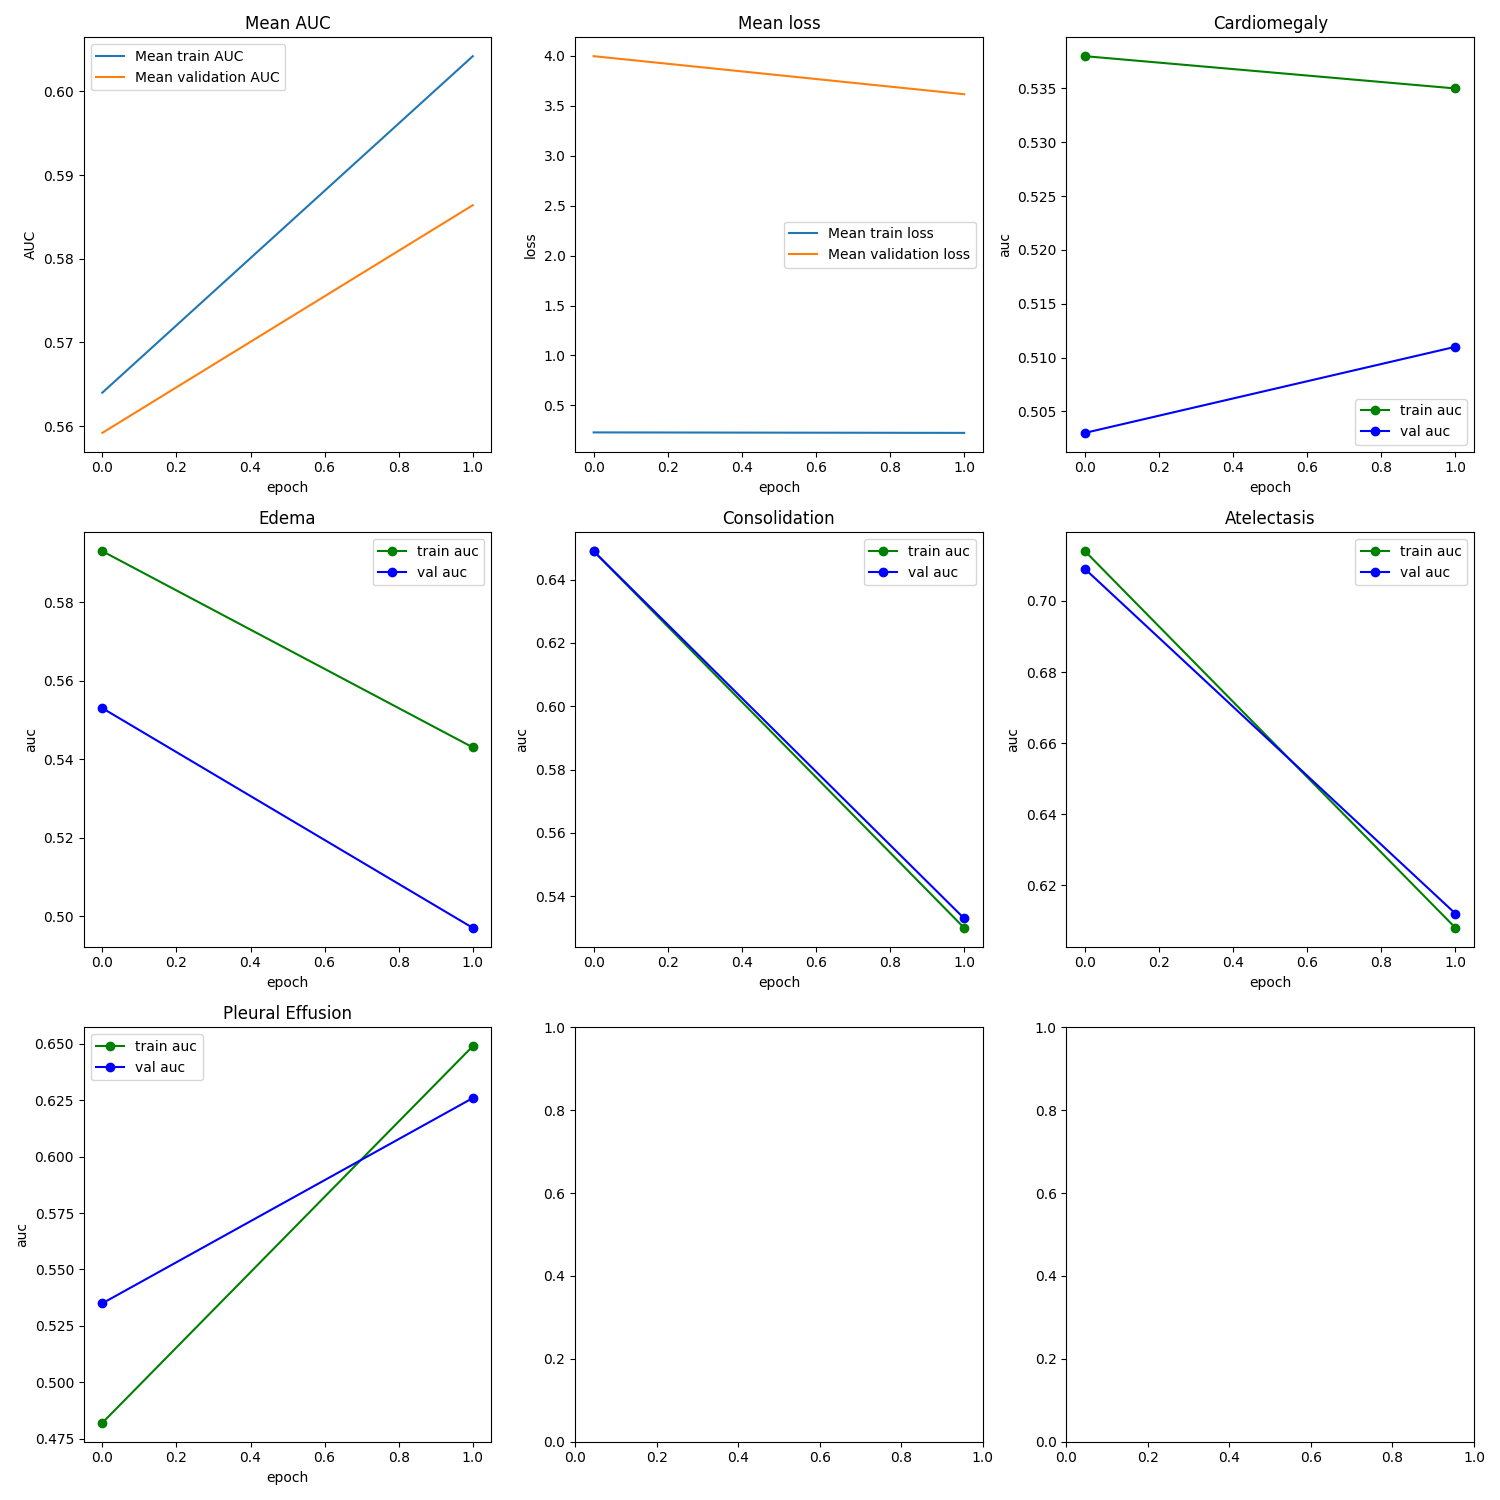
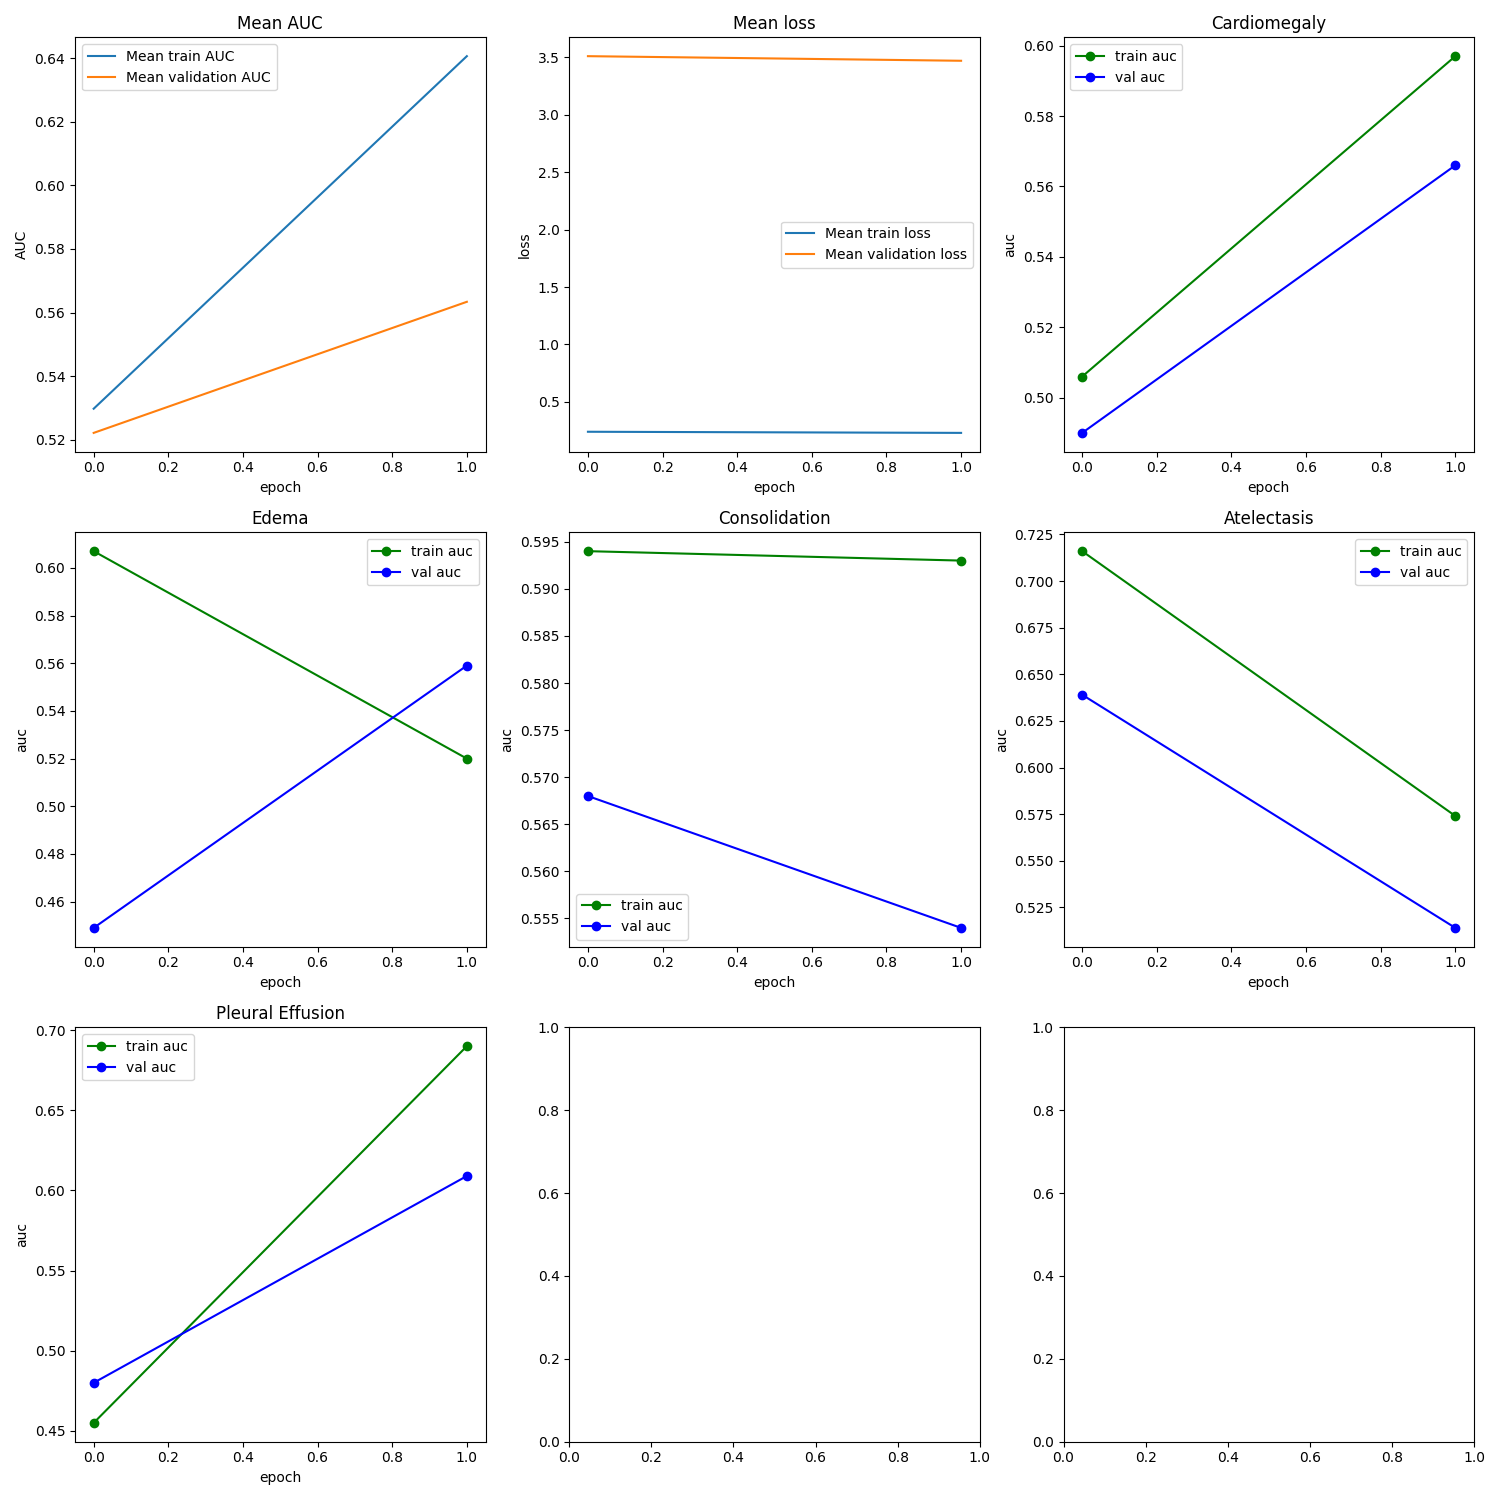
check out master

diff --git a/chexpert/data/dataset.py b/chexpert/data/dataset.py
@@ -15,6 +15,8 @@ import json,os
 from data.common import csv_index,load_transform
 from typing import Union, Tuple, List,Literal
 import cv2
+import random
+import matplotlib.pyplot as plt
 class ChestDataset(Dataset):  
     def __init__(self,cfg, mode:Literal["train","test"]="train",train_mode:Literal["default","progressive"]="default"):
         if mode=="train":
@@ -67,6 +69,13 @@ class ChestDataset(Dataset):
             image=self.transform(image=image)  
         return  image["image"],label
     
+    def get_original_item(self,idx):
+        label=self.df.iloc[idx,self.class_idx]
+        label=label.to_numpy().astype(int)
+        img_path=os.path.join(self.root,self.df.iloc[idx,0]) 
+        image=cv2.imread(img_path,0)  
+        return image,label     
+    
     def calculate_mean_std(self,samples:int):
         means=[]
         variations=[]
@@ -92,41 +101,59 @@ class ChestDataset(Dataset):
         std=np.sqrt(var)
         return mean,std
 
-         
-           
-# def loadData(cfg,mode="default"):
-#     if mode=="default":
-#         mini_data=cfg.mini_data
-#         batch_size = cfg.train.batch_size
-#         img_size=320
-#     elif mode=="progressive":
-#         mini_data=cfg.progressive_mini_data
-#         batch_size = cfg.progressive_train.batch_size
-#         img_size=cfg.image.progressive_image_size
-    
-#     train_data=ChestDataset(cfg=cfg,mini_data=mini_data["train"] , mode="train")
-#     test_data=ChestDataset(cfg=cfg,mode="test")
-#     train_loader=torch.utils.data.DataLoader (train_data,batch_size=batch_size,shuffle=True,num_workers=16)
-#     test_loader=torch.utils.data.DataLoader(test_data,batch_size=1,shuffle=False,num_workers=16)
-#     return train_loader,test_loader
+              
 
-# def tta_loader(cfg):
-#     def expand (image,*arg,**karg):
-#             image=np.expand_dims(image,axis=0)
-#             return np.repeat(image,3,axis=0)   
-#     img_size=320    
-#     factor=0.05
-#     ceil=int (img_size*(1+factor) )
-#     floor=int (img_size*(1-factor) )
-#     test_transform = A.Compose([
-#             A.Resize(height=ceil,width=ceil) ,                     
-#             A.ShiftScaleRotate( scale_limit =((-0.2, 0.2)) ),
-#             A.RandomSizedCrop(min_max_height=(floor,ceil ),height=img_size,width=img_size),
-#             A.Normalize(mean=[128.21/255], std=[73.22/255]),
-#             A.Lambda( image=expand),                
-#                         ])
-#     test_data=ChestDataset(cfg=cfg,mode="test")
-#     return torch.utils.data.DataLoader(test_data, batch_size=1,shuffle=False, num_workers=16)   
+def tta_loader(cfg):
+    def expand (image,*arg,**karg):
+            image=np.expand_dims(image,axis=0)
+            return np.repeat(image,3,axis=0)   
+    img_size=320    
+    factor=0.05
+    ceil=int (img_size*(1+factor) )
+    floor=int (img_size*(1-factor) )
+    test_transform = A.Compose([
+            A.Resize(height=ceil,width=ceil) ,                     
+            A.ShiftScaleRotate( scale_limit =((-0.2, 0.2)) ),
+            A.RandomSizedCrop(min_max_height=(floor,ceil ),height=img_size,width=img_size),
+            A.Normalize(mean=[128.21/255], std=[73.22/255]),
+            A.Lambda( image=expand),                
+                        ])
+    test_data=ChestDataset(cfg=cfg,mode="test")
+    return torch.utils.data.DataLoader(test_data, batch_size=1,shuffle=False, num_workers=16)   
+
+def random_visualize(train_dataset,test_dataset):
+    n_samples=10
+  
+    train_samples={}
+    test_samples={}
+    save_folder="/root/repo/chexpert_classification/chexpert/output/learning_analysis"
+    for i in range (n_samples):
+
+        train_idx=random.choice(range(len(train_dataset)))
+        test_idx=random.choice(range(len(test_dataset)))
+        train_samples[str(train_idx)]=train_dataset.__getitem__(train_idx)
+        test_samples[str(test_idx)]=test_dataset.__getitem__(test_idx) 
+    fig,ax=plt.subplots(4,n_samples, figsize=(30,30))
+    plt.tight_layout()
+
+    for i,key in enumerate (train_samples.keys()):
+        ax[0,i].imshow(  train_samples[key][0][0],cmap="gray")
+        ax[0,i].set_title(f"row {key} of train dataset" )
+
+        ax[2,i].imshow(train_dataset.get_original_item(int(key))[0],cmap="gray")   
+        ax[2,i].set_title(f"row {key} of original train dataset" )    
+
+    for i,key in enumerate (test_samples.keys()):
+        ax[1,i].imshow( test_samples[key][0][0], cmap="gray")
+        ax[1,i].set_title(f"row {key} of test dataset" )
+
+        ax[3,i].imshow(test_dataset.get_original_item(int(key))[0],cmap="gray")   
+        ax[3,i].set_title(f"row {key} of original test dataset" )    
+
+
+    plt.show()
+    plt.savefig(os.path.join(save_folder,"samples_visualize.png"))
+    plt.clf()
 
 
 
@@ -136,11 +163,10 @@ if __name__=="__main__":
     cfg_path="/root/repo/chexpert_classification/chexpert/config/config.json"
     with open(cfg_path) as f:
         cfg = edict(json.load(f))
-    dataset=ChestDataset(cfg=cfg,mode="train")
-    for i in range (5):
-        img,label=dataset.__getitem__(i)
-        print ("type",type(img),type(label),label[i])
-        print (label,label.dtype)
+    traindataset=ChestDataset(cfg=cfg,mode="train")
+    testdataset=ChestDataset(cfg=cfg,mode="test")
+    random_visualize(traindataset,testdataset)
+   
 
 
     # for i in range (10):

diff --git a/chexpert/model/chexpert.py b/chexpert/model/chexpert.py
@@ -2,7 +2,8 @@
 import sys
 import torch
 import json,os
-sys.path.append("../data")
+sys.path.append("/root/repo/chexpert_classification/chexpert/")
+sys.path.append("/root/repo/chexpert_classification/chexpert/model")
 sys.path.append("../model")
 from data.dataset import ChestDataset
 from data import dataUtils
@@ -84,7 +85,7 @@ class chexpertNet():
         targets=torch.concat(targets,dim=0).detach()
         metric=self.metric.compute_metrics(outputs=outputs,targets=targets,losses=losses.mean)
         print (" Mean AUC : {: .3f}. AUC for each class: {}".format(metric["meanAUC"],metric["aucs"]))
-        modelUtils.recordTraining(cfg=self.cfg,epoch=epoch,metric=metric)
+
         return metric      
     def eval_tta(self,model,data_loader,epoch):
         model.eval()   
@@ -119,7 +120,7 @@ class chexpertNet():
         print (" Mean AUC using tta : {: .3f}. AUC for each class: {}".format(metric["meanAUC"],metric["aucs"]))
         modelUtils.recordTraining(cfg=self.cfg,epoch=epoch,metric=metric)
         return metric                           
-    def train_epochs (self,train_loader,val_loader,lowres_train_loader=None,lowres_val_loader=None,fold=1):    
+    def train_epochs (self,train_loader,val_loader,lowres_train_loader=None,fold=1):    
         train_metrics=[]
         val_metrics=[]
         if self.cfg.load_ckp=="True":
@@ -129,7 +130,7 @@ class chexpertNet():
                 val_metric=self.eval(data_loader=val_loader,model=model,epoch=epoch)  
 
         else:          
-            if lowres_train_loader is not None and lowres_val_loader is not None:
+            if lowres_train_loader is not None :
                 print(" TRAIN ON LOW-RES DATASET")         
                 for epoch in range(1, self.cfg.progressive_train.epochs + 1):
                     print(f"[]: Epoch {epoch} of {self.cfg.progressive_train.epochs}")
@@ -260,16 +261,16 @@ class chexpertNet():
                         batch_size=self.cfg.train.batch_size, sampler=train_subsampler)
             val_loader = torch.utils.data.DataLoader(
                         train_dataset,
-                        batch_size=1, sampler=val_subsampler)
+                        batch_size=self.cfg.train.batch_size, sampler=val_subsampler,)
             lowres_train_loader=torch.utils.data.DataLoader(
                         lowres_train_dataset, 
                         batch_size=self.cfg.train.batch_size, sampler=train_subsampler) if self.cfg.train_mode=="progresssive" else None
-            lowres_val_loader=torch.utils.data.DataLoader(
-                        lowres_train_dataset,
-                        batch_size=1, sampler=val_subsampler)if self.cfg.train_mode=="progresssive" else None
+            # lowres_val_loader=torch.utils.data.DataLoader(
+            #             lowres_train_dataset,
+            #             batch_size=1, sampler=val_subsampler)if self.cfg.train_mode=="progresssive" else None
             
             self.model.apply(reset_weights)
-            train_metrics,val_metrics=self.train_epochs(train_loader,val_loader,lowres_train_loader,lowres_val_loader,fold)
+            train_metrics,val_metrics=self.train_epochs(train_loader,val_loader,lowres_train_loader,fold)
             multiple_train_metrics.append(train_metrics)
             multiple_val_metrics.append(val_metrics)
             models.append(copy.deepcopy(self.model.state_dict()))
@@ -279,9 +280,34 @@ class chexpertNet():
         print (f"Finish train on fold {fold+1} with mean auc of epochs {mean_aucs_of_epochs}, highes mean auc {highest_mean_auc}")
         modelUtils.save_metrics_and_models({"train_stats":multiple_train_metrics,"val_stats":multiple_val_metrics},models)
 
-       
+    def switch_train_test(self) :
+        # I observe that there is a significant difference between train loss and val/test loss (~ 3 for val/test loss and ~0.2 for train loss). I suspect that this is overfitting,
+        # so i try out swaping train and test set, which mean training on test set and test on train set 
+        # when run this method, val loss and train loss are almost similar, so overfit seem to be thw answer
+        train_dataset=ChestDataset(cfg=self.cfg,mode='test')
+        test_dataset=ChestDataset(cfg=self.cfg)
+        train_loader = torch.utils.data.DataLoader(
+                        train_dataset, 
+                        batch_size=self.cfg.train.batch_size)
+        test_loader = torch.utils.data.DataLoader(
+                        test_dataset,
+                        batch_size=self.cfg.train.batch_size)
+        self.train_epochs(train_loader,test_loader)
+        
+            
+
+
 def reset_weights(m):
     for layer in m.children():
         if hasattr(layer, 'reset_parameters'):
             # print(f'Reset trainable parameters of layer = {layer}')
             layer.reset_parameters()
+if __name__=="__main__":
+    from easydict import EasyDict as edict
+    import json
+    device = torch.device("cuda:0" if torch.cuda.is_available() else "cpu")
+    cfg_path="/root/repo/chexpert_classification/chexpert/config/config.json"
+    with open(cfg_path) as f:
+        cfg = edict(json.load(f))
+    net=chexpertNet(cfg=cfg,device=device)
+    net.switch_train_test()

diff --git a/chexpert/data/common.py b/chexpert/data/common.py
@@ -34,9 +34,10 @@ def load_transform(cfg,mode:Literal["train","test"]="train", train_mode:Literal[
                 image=np.expand_dims(image,axis=0)
                 return np.repeat(image,3,axis=0)
     train_transform = A.Compose([
-                    A.Resize(height=ceil,width=ceil) ,                     
-                    A.ShiftScaleRotate( scale_limit =((-0.2, 0.2)) ),
-                    A.RandomSizedCrop(min_max_height=(floor,ceil ),height=img_size,width=img_size),
+                    # A.Resize(height=ceil,width=ceil) ,                     
+                    A.ShiftScaleRotate( scale_limit =(-0.2, 0.2) ,rotate_limit=(-10,10)),
+                    A.RandomResizedCrop(height=img_size,width=img_size,scale=(0.9, 1.0),ratio=(0.75, 1.3333333333333333)),
+
                     A.HorizontalFlip(),
                     A.Normalize(mean=[128.21/255], std=[73.22/255]),
                     A.Lambda( image=expand),                

diff --git a/chexpert/__main__.py b/chexpert/__main__.py
@@ -14,13 +14,10 @@ device = torch.device("cuda:0" if torch.cuda.is_available() else "cpu")
 with open(cfg_path) as f:
     cfg = edict(json.load(f))
 net=chexpert.chexpertNet(cfg=cfg,device=device)
+# net.switch_train_test()
 net.k_fold_train()
 net.test()
-# if cfg.train_mode.name=="default":
-#     model.train_epochs()
-# elif cfg.train_mode.name=="progressive":
-#     assert cfg.load_ckp=="False" , "load check point must be false"
-#     model.progressive_train_epochs()
+
 
 
 

diff --git a/chexpert/model/backbone.py b/chexpert/model/backbone.py
@@ -38,3 +38,6 @@ class ConvNextClassifier (nn.Module):
         self.convnext.classifier[2]=nn.Linear(in_features=768, out_features=num_classes, bias=True)      
     def forward(self,x):
         return self.convnext(x)
+if __name__=='__main__':
+    net= DenseNetClassifier(4)
+    print (net)
